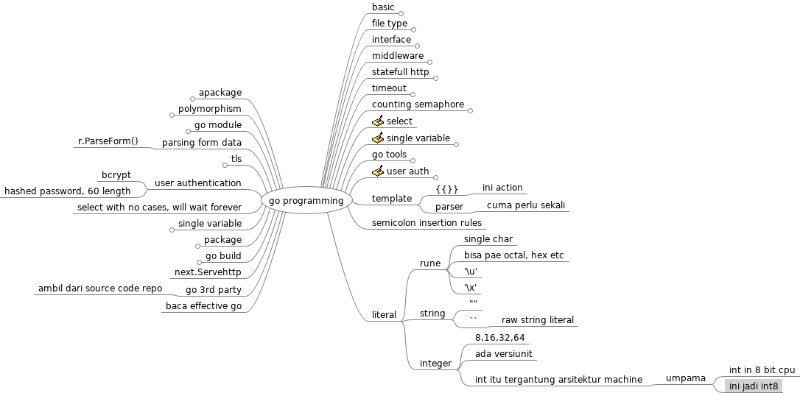
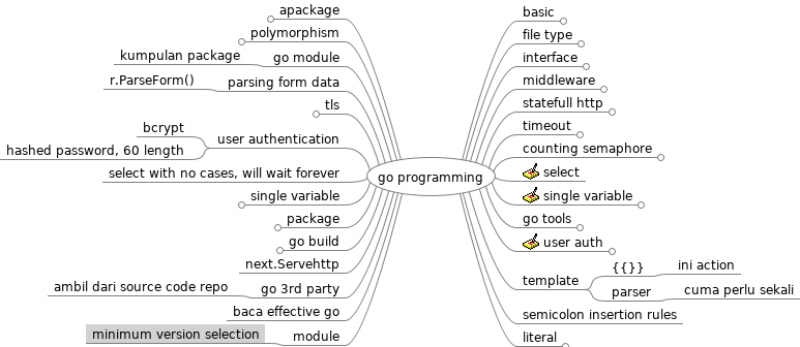
update lecture notes

Changed region(s): [[0.0, 0.0, 1.0, 1.0]]

diff --git a/go programming.mm b/go programming.mm
@@ -41,7 +41,7 @@
 </node>
 <node CREATED="1651067815554" ID="ID_714579341" MODIFIED="1651067827132" TEXT="golang, interface, type assetion,, with pointer"/>
 </node>
-<node CREATED="1651068314684" FOLDED="true" ID="ID_1461340350" MODIFIED="1675463393701" POSITION="left" TEXT="go module">
+<node CREATED="1651068314684" ID="ID_1461340350" MODIFIED="1678715862623" POSITION="left" TEXT="go module">
 <node CREATED="1651068318747" ID="ID_1338610260" MODIFIED="1651068324116" TEXT="kumpulan package"/>
 </node>
 <node CREATED="1651330245094" FOLDED="true" ID="ID_1758140287" MODIFIED="1662500884828" POSITION="right" TEXT="middleware">
@@ -177,7 +177,7 @@
 </node>
 <node CREATED="1675463782790" ID="ID_580802870" MODIFIED="1675463788976" POSITION="right" TEXT="semicolon insertion rules"/>
 <node CREATED="1675463825229" ID="ID_285207713" MODIFIED="1675463832569" POSITION="left" TEXT="baca effective go"/>
-<node CREATED="1675464696441" ID="ID_688879725" MODIFIED="1675464699221" POSITION="right" TEXT="literal">
+<node CREATED="1675464696441" FOLDED="true" ID="ID_688879725" MODIFIED="1678715851095" POSITION="right" TEXT="literal">
 <node CREATED="1675464699459" ID="ID_1197102203" MODIFIED="1675464701184" TEXT="rune">
 <node CREATED="1675464701380" ID="ID_130521759" MODIFIED="1675464703824" TEXT="single char"/>
 <node CREATED="1675464705014" ID="ID_1161866234" MODIFIED="1675464714238" TEXT="bisa pae octal, hex etc"/>
@@ -190,7 +190,7 @@
 <node CREATED="1675464829294" ID="ID_1764004756" MODIFIED="1675464836659" TEXT="raw string literal"/>
 </node>
 </node>
-<node CREATED="1675465491489" ID="ID_710436384" MODIFIED="1675465494290" TEXT="integer">
+<node CREATED="1675465491489" FOLDED="true" ID="ID_710436384" MODIFIED="1678715849174" TEXT="integer">
 <node CREATED="1675465494531" ID="ID_553481063" MODIFIED="1675465501554" TEXT="8,16,32,64"/>
 <node CREATED="1675465502064" ID="ID_1137050741" MODIFIED="1675465507733" TEXT="ada versiunit"/>
 <node CREATED="1675465508702" ID="ID_631944813" MODIFIED="1675465521484" TEXT="int itu tergantung arsitektur machine">
@@ -200,6 +200,9 @@
 </node>
 </node>
 </node>
+</node>
+<node CREATED="1678718674003" ID="ID_1895312091" MODIFIED="1678718675926" POSITION="left" TEXT="module">
+<node CREATED="1678718676172" ID="ID_911275441" MODIFIED="1678718682045" TEXT="minimum version selection"/>
 </node>
 </node>
 </map>

diff --git a/ckad.mm b/ckad.mm
@@ -1,0 +1,12 @@
+<map version="1.1.0">
+<!-- To view this file, download free mind mapping software FreeMind from http://freemind.sourceforge.net -->
+<node CREATED="1678715872327" ID="ID_680925612" MODIFIED="1678715877046" TEXT="ckad">
+<node CREATED="1678715916853" ID="ID_1999191185" MODIFIED="1678715942286" POSITION="right" TEXT="multi pod">
+<node CREATED="1678715922324" ID="ID_188062672" MODIFIED="1678715946401" TEXT="sidecar"/>
+<node CREATED="1678715946649" ID="ID_1195057989" MODIFIED="1678715949334" TEXT="adaptor"/>
+<node CREATED="1678715949584" ID="ID_807013597" MODIFIED="1678715952315" TEXT="ambassaodr"/>
+</node>
+<node CREATED="1678716129346" ID="ID_791321054" MODIFIED="1678716135695" POSITION="left" TEXT="pos uses service account"/>
+<node CREATED="1678716571956" ID="ID_190220819" MODIFIED="1678716592633" POSITION="right" TEXT="kubectl config set-context namacontext --namespace=nama_name-space"/>
+</node>
+</map>
